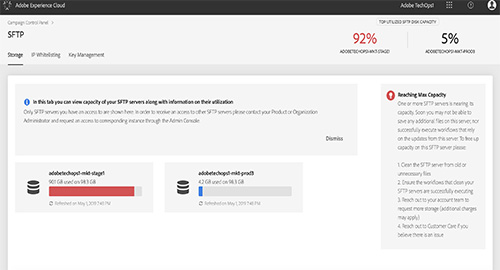
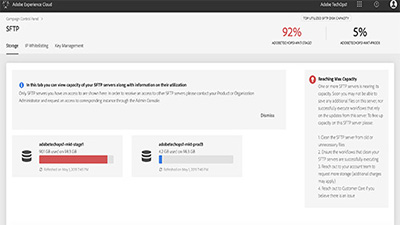
added thumbnail meta tags and updated jpg format

diff --git a/help/acc/sending-messages/using-delivery-templates/configuring-a-delivery-template.md b/help/acc/sending-messages/using-delivery-templates/configuring-a-delivery-template.md
@@ -4,6 +4,7 @@ description: A template can systematically include typologies, sender and reply-
 feature: Delivery Templates
 topics: Templates
 kt: 1980
+thumbnail: 24066.jpg
 doc-type: feature video
 activity: use
 team: TM

diff --git a/help/acc/sending-messages/using-delivery-templates/deploying-ad-hoc-email-delivery-template.md b/help/acc/sending-messages/using-delivery-templates/deploying-ad-hoc-email-delivery-template.md
@@ -4,6 +4,7 @@ description: This video explains how to deploy an ad-hoc email delivery template
 feature: Delivery Templates
 topics: Templates
 kt: 1565
+thumbnail: 24065.jpg
 doc-type: feature video
 activity: use
 team: TM

diff --git a/help/acc/sending-messages/using-delivery-templates/setting-delivery-template-properties.md b/help/acc/sending-messages/using-delivery-templates/setting-delivery-template-properties.md
@@ -4,6 +4,7 @@ description: The following video shows how to set the delivery template properti
 feature: Delivery Templates
 topics: Templates
 kt: 1981
+thumbnail: 24067.jpg
 doc-type: feature video
 activity: use
 team: TM
